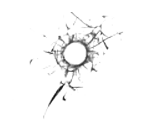
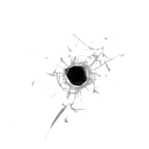
Glass shattering, all sorts of cool shit ... looks gory now :)

diff --git a/spatter.html b/spatter.html
@@ -16,7 +16,8 @@ var _imgSP ;
 var _cnvSS ;
 var _ctxSS ;
 
-var _DREG = [] ;
+var _DREG = [] ; // blood drips
+var _GPCL = [] ; // glass particles
 
 // Counts calls to updateDREG
 // Used to decrement spatter size every n'th cycle
@@ -24,11 +25,17 @@ var _IDREG = 0 ;
 
 var _IDRIP ;
 
+var _elBody ;
+
 function main()
 {
 	_imgSP  = document.getElementById('spatter-prim') ;
 	_cnvSP 	= document.getElementById('spatter-paint') ;
 	_ctxSP 	= _cnvSP.getContext('2d') ;
+
+	_elBody = document.getElementById('thebody') ;
+
+	//_elBody.addEventListener('mousedown',holeClick,false) ;
 
 	_IDRIP 	= window.setInterval('updateDREG()',200) ;
 
@@ -44,44 +51,130 @@ function cleanup()
 	_DREG = [] ;
 }
 
-// Quadrant to spray in ... Q1 is NorthWest, goes CW from there...
+var _iDeath = 0 ;
+function deathSeq()
+{
+	_iDeath++ ;
+	if(_iDeath > 5) return ;
+	holeClick() ;
+	window.setTimeout('deathSeq()',randomInt(100,600)) ;
+}
+
+function spawnGlassExplosion(cx, cy, rNom)
+{
+	console.log('Spawning glass explosion '+cx+', '+cy+', '+rNom) ;
+	var r ;
+
+	for(var i = 0; i < 100; i++)
+	{
+		r = rNom * randomInt((100 - 40),(100 + 40)) / 100 ;
+		r = Math.floor(r) ;
+
+		a = randomInt(0, 2 * Math.PI * 100) / 100 ;
+		s = randomInt(5,30) ;
+		spawnGlassParticle(cx, cy, r, a, s) ;
+	}
+}
+
+function spawnGlassParticle(cx, cy, r, a, s)
+{
+	var xFin, yFin ;
+
+	xFin = cx + r * Math.cos(a) ;
+	yFin = cy + r * Math.sin(a) ;
+
+	xFin = Math.floor(xFin) ;
+	yFin = Math.floor(yFin) ;
+
+	var img = document.createElement('img') ;
+	img.src = 'img/glass-particle.png' ;
+	img.style.position = 'absolute' ;
+	img.style.zIndex = 300 ;
+	
+	img.style.webkitTransform = 'rotate(' + randomInt(0, 360) + 'deg)' ;
+
+	img.style.left = cx + 'px' ;
+	img.style.top = cy + 'px' ;
+
+	img.style.width = s + 'px' ;
+	img.style.height = s + 'px' ;
+
+	img.style.webkitTransition = 'all 1s' ;
+	img.style.webkitTransitionTimingFunction = 'ease-out' ;
+
+	_elBody.appendChild(img) ;
+
+	window.setTimeout(function(){
+		img.style.left = xFin + 'px' ;
+		img.style.top = yFin + 'px' ;
+		img.style.opacity = 0 ;
+		img.style.webkitTransform = 'rotateY(' + randomInt(0,360) + 'deg)' ;
+	},10) ;
+
+	window.setTimeout(function(){
+		img.parentNode.removeChild(img) ;
+	},3000) ;
+}
+
 var _IQ = 0 ;
+function holeClick()
+{
+	var cx, cy ;
+	var x, y ;
+	var qLoc ;
+
+	// Pick random cx, cy from quadrant
+	var qb = getQuadrantBounds(_IQ) ;
+	cx = randomInt(qb[0], qb[1]) ;
+	cy = randomInt(qb[2], qb[3]) ;
+
+	// Trigger a glass explosion with random rNom
+	spawnGlassExplosion(cx, cy, randomInt(200,300)) ;
+
+	// Create and append bullet hole
+	var img = document.createElement('img') ;
+	img.className = 'bhole' ;
+	img.src = 'img/bullet-hole-' + randomInt(1,4) + '.png' ;
+
+	img.style.position = 'absolute' ;
+	img.style.webkitTransform = 'rotate(' + randomInt(0, 360) + 'deg)' ;
+
+	// Calculate top/left position of image from cx, cy and dimensions
+	x = cx - Math.floor(img.width / 2) ;
+	y = cy - Math.floor(img.height / 2) ;
+
+	img.style.left = x + 'px' ;
+	img.style.top = y + 'px' ;
+
+	window.setTimeout(function(){
+		_elBody.appendChild(img) ;
+	},75) ;
+	
+	// Copy quadrant index into local var so timeout
+	// triggers on proper quadrant (otherwise it'd be incremented already ...)
+	qLoc = _IQ ;
+
+	window.setTimeout(function(){sprayBlood(qLoc)},500) ;
+
+	_IQ++ ;
+
+	if(_IQ > 3) _IQ = 0 ;
+}
+
+// Quadrant to spray in ... Q1 is NorthWest, goes CW from there...
 var C_QPAD = 100 ;
-function sprayClick()
+function sprayBlood(iQ)
 {
 	var cx, cy ;
 	var xMin, yMin, xMax, yMax ;
 	var rMax ;
 
-	if(_IQ == 0){
-		xMin = C_QPAD ;
-		xMax = 512 - C_QPAD ;
-		yMin = C_QPAD ;
-		yMax = 384 - C_QPAD ;
-	}
+	var qb = getQuadrantBounds(iQ) ;
 
-	if(_IQ == 1){
-		xMin = 512 - C_QPAD ;
-		xMax = 1024 - C_QPAD ;
-		yMin = C_QPAD ;
-		yMax = 384 - C_QPAD ;
-	}
-
-	if(_IQ == 2){
-		xMin = C_QPAD; 
-		xMax = 512 - C_QPAD ;
-		yMin = 384 + C_QPAD ;
-		yMax = 768 - C_QPAD ;
-	}
-
-	if(_IQ == 3){
-		xMin = 512 + C_QPAD ;
-		xMax = 1024 - C_QPAD ;
-		yMin = 384 + C_QPAD ;
-		yMax = 768 - C_QPAD ;
-	}
-
-	if(_IQ > 3) _IQ = 0 ;
+	xMin = qb[0] ;
+	xMax = qb[1] ;
+	yMin = qb[2] ;
+	yMax = qb[3] ;
 
 	cx = randomInt(xMin, xMax) ;
 	cy = randomInt(yMin, yMax) ;
@@ -97,8 +190,41 @@ function sprayClick()
 	// Outer ring
 	rMax = randomInt(400,800) ;
 	formSpatter(cx, cy, rMax) ;
+}
 
-	_IQ++ ;
+function getQuadrantBounds(iQ)
+{
+	var xMin, xMax, yMin, yMax ;
+
+	if(iQ == 0){
+		xMin = C_QPAD ;
+		xMax = 512 - C_QPAD ;
+		yMin = C_QPAD ;
+		yMax = 384 - C_QPAD ;
+	}
+
+	if(iQ == 1){
+		xMin = 512 - C_QPAD ;
+		xMax = 1024 - C_QPAD ;
+		yMin = C_QPAD ;
+		yMax = 384 - C_QPAD ;
+	}
+
+	if(iQ == 2){
+		xMin = C_QPAD; 
+		xMax = 512 - C_QPAD ;
+		yMin = 384 + C_QPAD ;
+		yMax = 768 - C_QPAD ;
+	}
+
+	if(iQ == 3){
+		xMin = 512 + C_QPAD ;
+		xMax = 1024 - C_QPAD ;
+		yMin = 384 + C_QPAD ;
+		yMax = 768 - C_QPAD ;
+	}
+
+	return([xMin, xMax, yMin, yMax]) ;
 }
 
 // Basically calls doSpray a few times
@@ -231,14 +357,17 @@ function randomInt(min, max)
 }
 </script>
 </head>
-<body>
-	<a style="position:absolute; z-index: 100" href="javascript:sprayClick()">SPRAY BLOOD!!</a>
-	<a style="position:absolute; z-index: 100; top: 50px" href="javascript:cleanup()">CLEANUP</a>
+<body id="thebody">
+	<a style="position:absolute; z-index: 300" href="javascript:deathSeq()">DEATH SEQUENCE</a>
+	<a style="position:absolute; z-index: 300; top: 50px" href="javascript:cleanup()">CLEANUP</a>
+	<a style="position:absolute; z-index: 300; top: 100px" href="javascript:spawnGlassExplosion(300,300,200)">GLASS</a>
 	
+	<!--
 	<img src="img/bullet-hole-3.png" class="bhole" style="top: 300px; left: 300px"/>
 	<img src="img/bullet-hole-1.png" class="bhole" style="top: 50px; left: 100px"/>
 	<img src="img/bullet-hole-4.png" class="bhole" style="top: 400px; left: 760px"/>
 	<img src="img/bullet-hole-3.png" class="bhole" style="-webkit-transform: rotate(75deg); top: 30px; left: 800px"/>
+	-->
 
 	<img style="display:none" id="spatter-prim" src="img/spatter-prim.png"></canvas>
 
@@ -252,7 +381,6 @@ function randomInt(min, max)
 	.bhole{
 		position: absolute ;
 		z-index: 200 ;
-		opacity: 0.5 ;
 	}
 	</style>
 	<script language="javascript">window.setTimeout('main()',200)</script>
